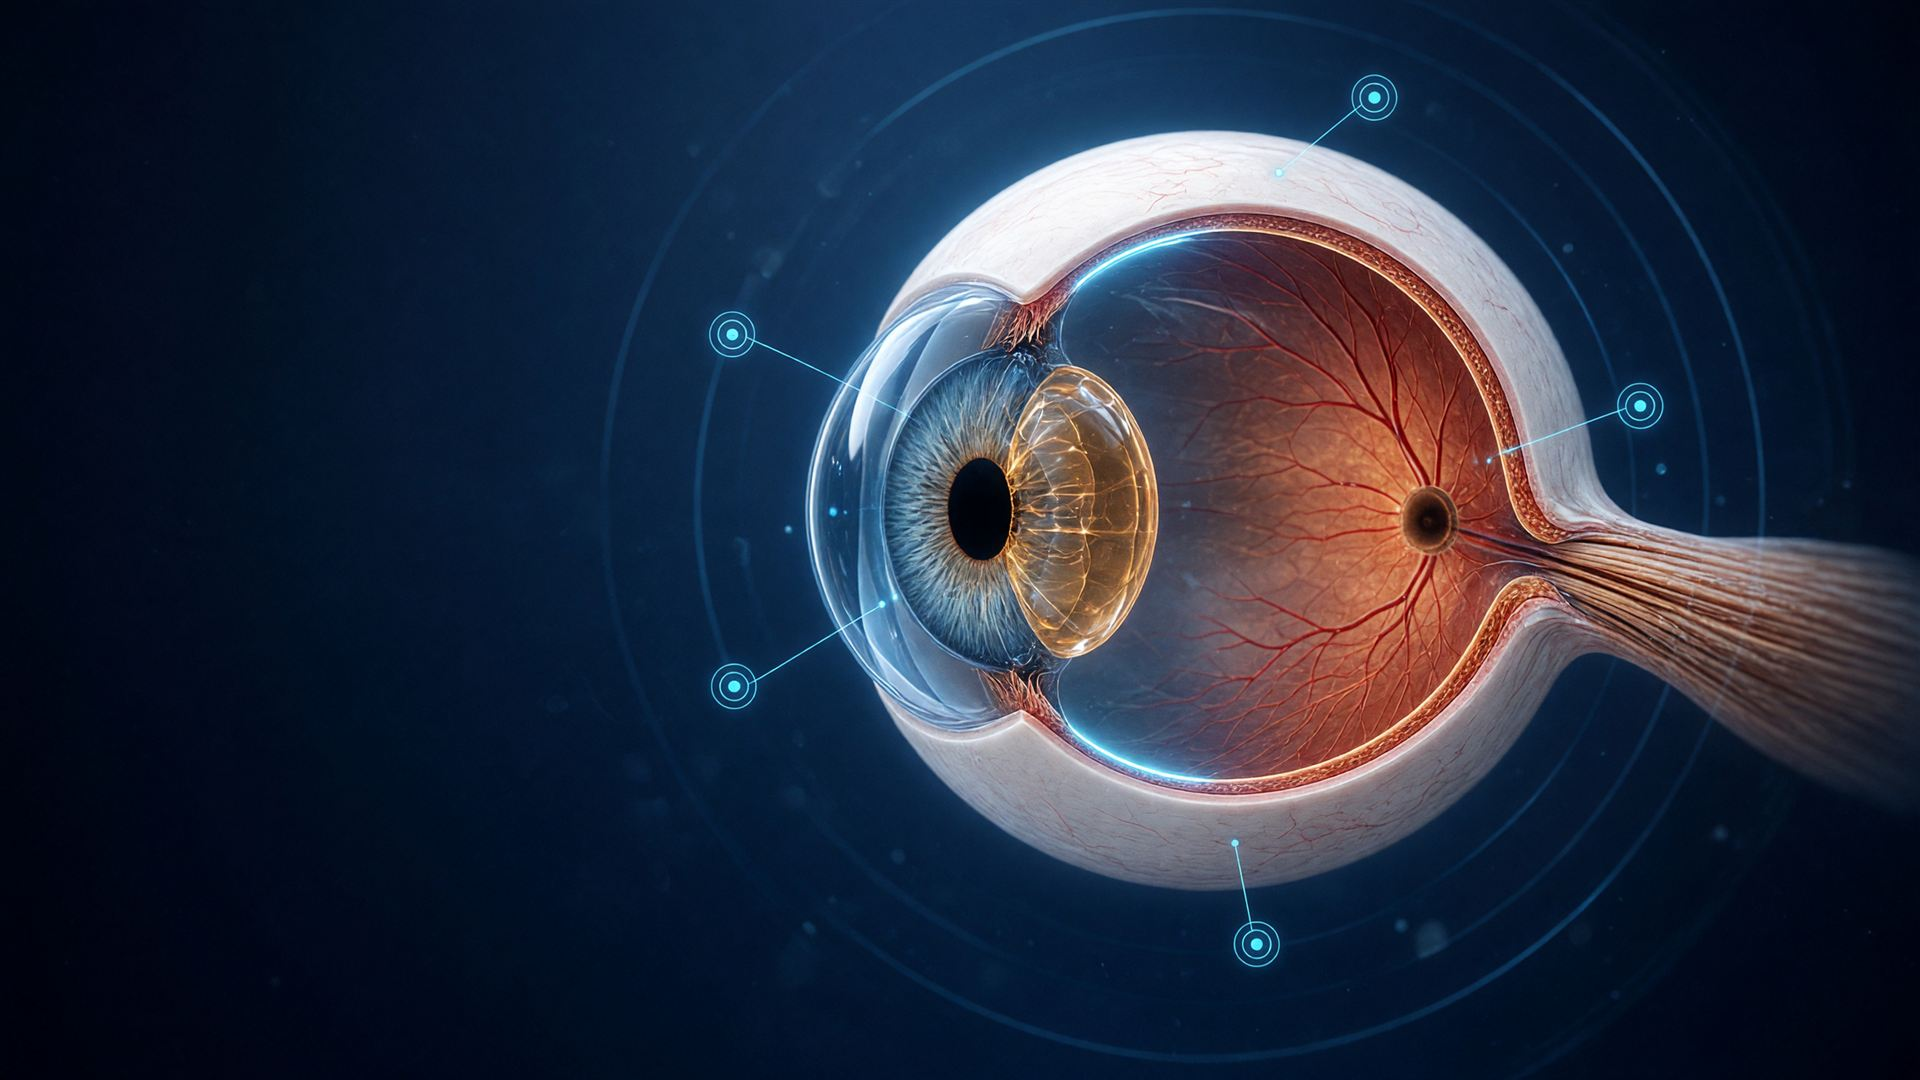
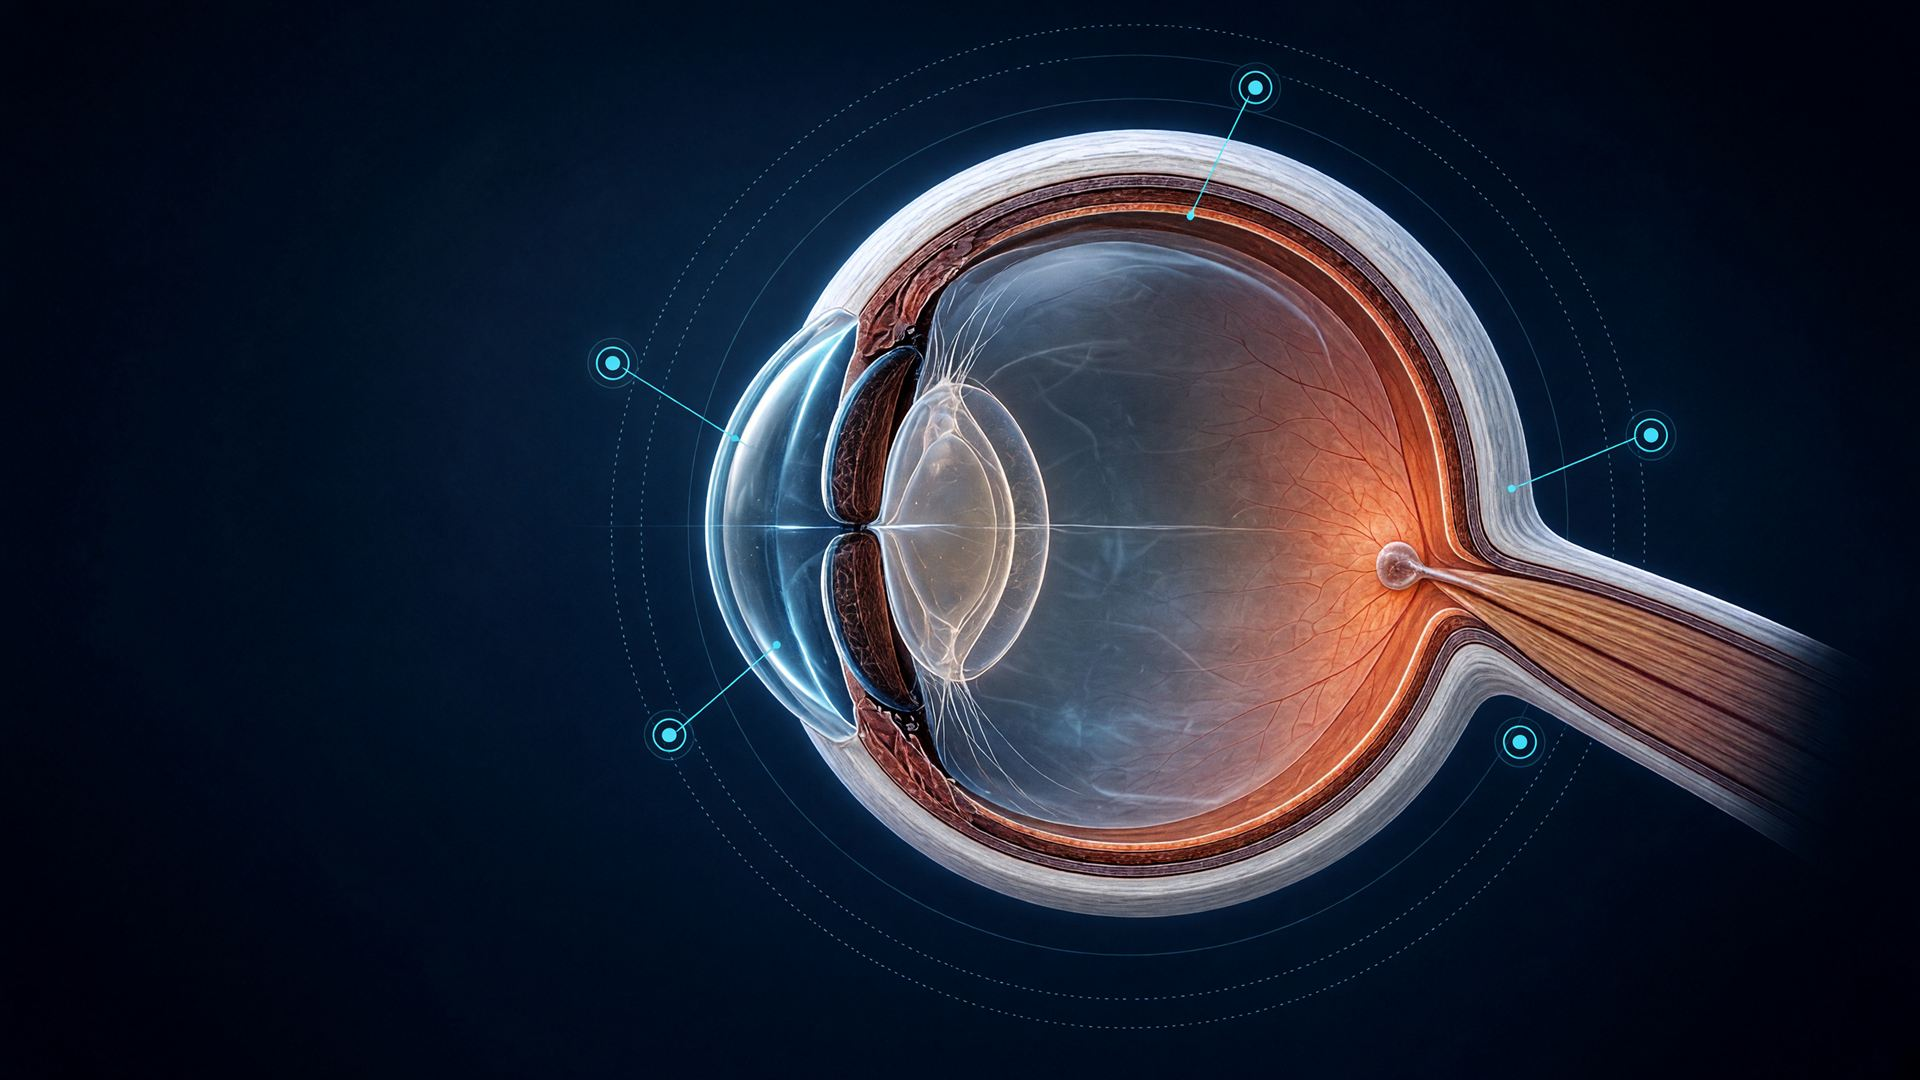
Imagen del Eye Universe con la anatomía corregida
- public/rh/eye-universe.jpg: corte axial esquemático con el iris de canto
  apoyado en el cristalino, cristalino biconvexo con su zónula, cuerpo ciliar
  periférico, retina, coroides y esclera en capas, y disco pálido en la salida
  del nervio. Sustituye a la versión con el iris de frente.
- Simplificación habitual de los esquemas de libro: el nervio sale cerca del eje
  y no se dibuja la fóvea. La imagen es decorativa; la referencia anatómica es
  el visor 3D (comentado en palette.ts).

Claude-Session: https://claude.ai/code/session_01MVTLnUwc862Sn8RbyznaNg

diff --git a/src/lib/radar-hunt/palette.ts b/src/lib/radar-hunt/palette.ts
@@ -42,6 +42,10 @@ export const RH_IMAGES = {
   final: `${PUBLIC_BASE}rh/final.jpg`,
   awards: `${PUBLIC_BASE}rh/awards.jpg`,
   industry: `${PUBLIC_BASE}rh/industry.jpg`,
-  /** Ilustración (no anatómica de referencia): solo decorativa. */
+  /**
+   * Corte axial esquemático (iris de canto, cristalino, zónula, capas de la pared, disco y nervio).
+   * Simplificación de libro: el nervio sale cerca del eje y no se dibuja la fóvea. Decorativa:
+   * la referencia anatómica es el visor 3D.
+   */
   eyeUniverse: `${PUBLIC_BASE}rh/eye-universe.jpg`,
 } as const;
